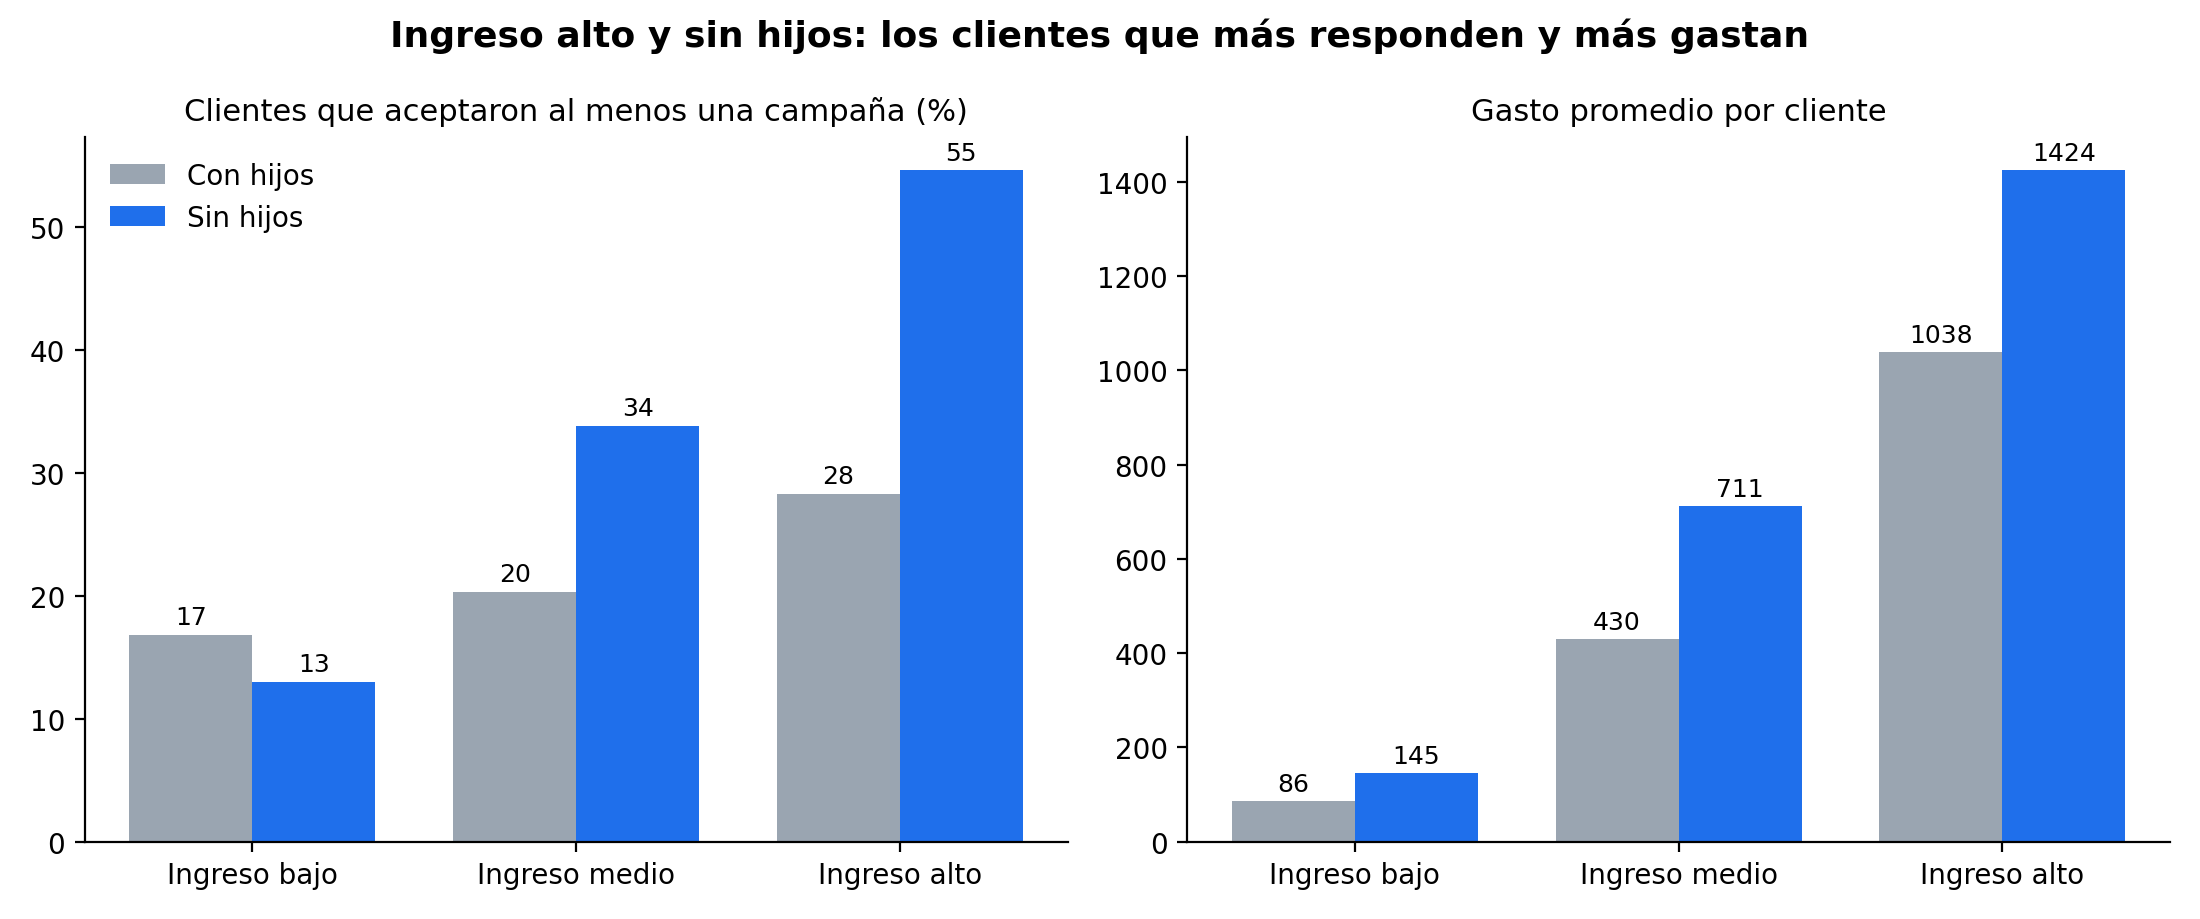
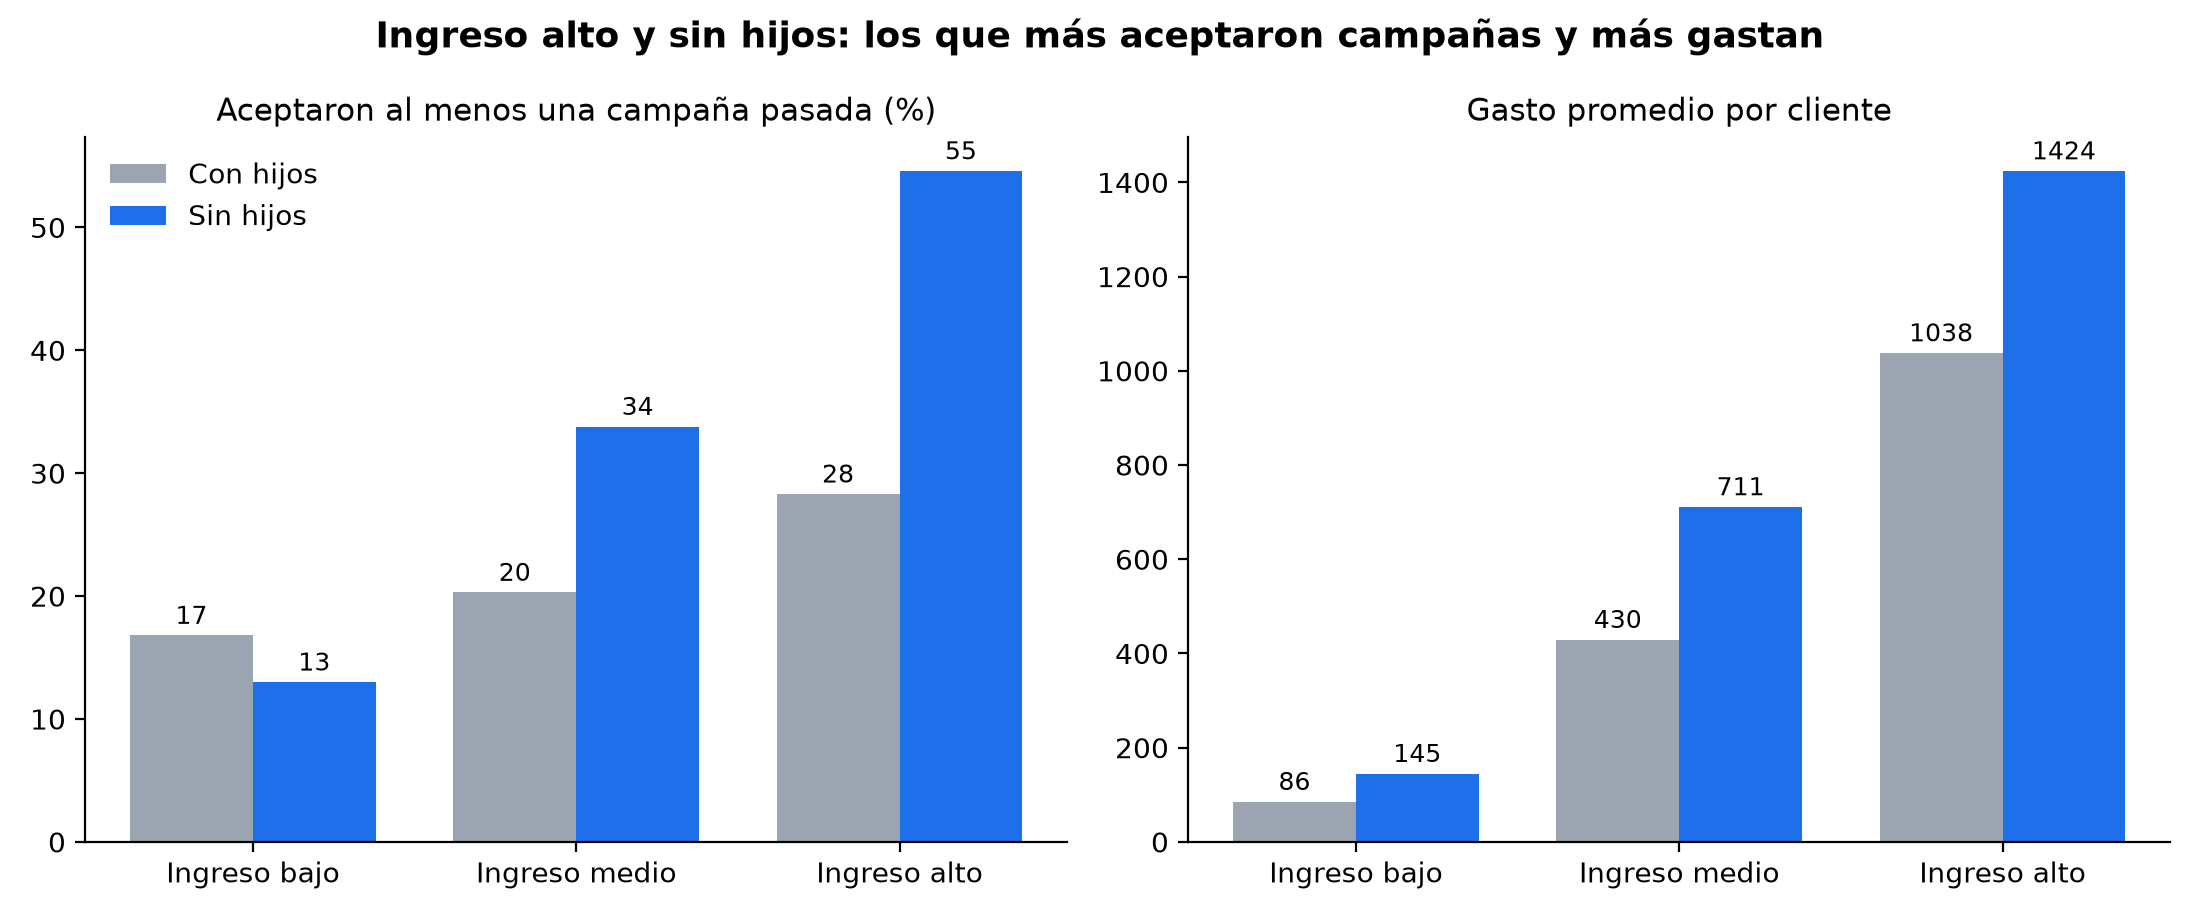
Entrega final: ajustes tras la devolución, presentación en PDF y README con enlaces

diff --git a/analisis_segmentos.py b/analisis_segmentos.py
@@ -3,7 +3,11 @@ Rebanada delgada #1 - Customer Personality Analysis
 
 Pregunta que responde:
     ¿Qué segmento de clientes, definido por ingreso y composición del hogar,
-    responde mejor a las campañas de marketing y gasta más?
+    aceptó más campañas en el pasado y gasta más?
+
+Importante: la aceptación que se mide es HISTÓRICA (campañas ya realizadas).
+No garantiza la misma respuesta en una campaña futura: para eso se propone
+una prueba piloto con grupo de control (ver README).
 
 Cómo correrlo:
     python analisis_segmentos.py
@@ -34,18 +38,18 @@ print(f"Filas excluidas: {n_original - len(df)} | Filas analizadas: {len(df)}")
 # ---------------------------------------------------------------
 # 3. Variables nuevas
 # ---------------------------------------------------------------
-# Respuesta a campañas: 1 si el cliente aceptó al menos una de las 6 campañas
+# Aceptación histórica: 1 si el cliente aceptó al menos una de las 6 campañas pasadas
 campanias = ["AcceptedCmp1", "AcceptedCmp2", "AcceptedCmp3",
              "AcceptedCmp4", "AcceptedCmp5", "Response"]
 df["acepto_alguna"] = (df[campanias].sum(axis=1) > 0).astype(int)
 
-# Gasto total: suma de lo gastado en todas las categorías de producto (columnas Mnt*)
+# Gasto total: suma de las columnas de gasto por categoría (empiezan con "Mnt")
 columnas_gasto = [c for c in df.columns if c.startswith("Mnt")]
 df["gasto_total"] = df[columnas_gasto].sum(axis=1)
 
-# Hogar: con hijos si tiene al menos un niño o adolescente en casa
-df["hogar"] = (df["Kidhome"] + df["Teenhome"] > 0).map(
-    {True: "Con hijos", False: "Sin hijos"})
+# Hogar con hijos si hay al menos un niño o adolescente en casa
+tiene_hijos = (df["Kidhome"] + df["Teenhome"]) > 0
+df["hogar"] = tiene_hijos.map({True: "Con hijos", False: "Sin hijos"})
 
 # Ingreso: tres tramos con la misma cantidad de clientes (terciles)
 df["ingreso"] = pd.qcut(df["Income"], 3, labels=["Bajo", "Medio", "Alto"])
@@ -53,42 +57,55 @@ df["ingreso"] = pd.qcut(df["Income"], 3, labels=["Bajo", "Medio", "Alto"])
 # ---------------------------------------------------------------
 # 4. Resultado por segmento
 # ---------------------------------------------------------------
-resumen = (
-    df.groupby(["ingreso", "hogar"], observed=True)
-      .agg(clientes=("ID", "count"),
-           tasa_aceptacion=("acepto_alguna", "mean"),
-           gasto_promedio=("gasto_total", "mean"),
-           gasto_total=("gasto_total", "sum"))
-      .reset_index()
-)
-resumen["pct_clientes"] = resumen["clientes"] / resumen["clientes"].sum()
-resumen["pct_gasto"] = resumen["gasto_total"] / resumen["gasto_total"].sum()
+grupos = df.groupby(["ingreso", "hogar"], observed=True)
+resumen = grupos.agg(
+    clientes=("ID", "count"),
+    tasa_aceptacion=("acepto_alguna", "mean"),
+    gasto_promedio=("gasto_total", "mean"),
+    gasto_total=("gasto_total", "sum"),
+).reset_index()
+
+resumen["pct_clientes"] = resumen["clientes"] / resumen["clientes"].sum() * 100
+resumen["pct_gasto"] = resumen["gasto_total"] / resumen["gasto_total"].sum() * 100
 resumen["tasa_aceptacion"] = resumen["tasa_aceptacion"] * 100
-resumen["pct_clientes"] = resumen["pct_clientes"] * 100
-resumen["pct_gasto"] = resumen["pct_gasto"] * 100
+
+# ---------------------------------------------------------------
+# 5. Control de calidad (si algo falla, el script se detiene con un mensaje)
+# ---------------------------------------------------------------
+assert len(resumen) == 6, "Se esperaban 6 segmentos (3 de ingreso x 2 de hogar)"
+assert len(df) == 2215, f"Se esperaban 2.215 registros y hay {len(df)}"
+assert resumen["clientes"].sum() == len(df), "Los segmentos no cubren todos los registros"
+assert abs(resumen["pct_clientes"].sum() - 100) < 1e-6, "El % de clientes no suma 100"
+assert abs(resumen["pct_gasto"].sum() - 100) < 1e-6, "El % del gasto no suma 100"
+print("Control de calidad: OK (2.215 registros en 6 segmentos; % del gasto suma 100)")
+
 resumen = resumen.round(1)
 
 print("\nTramos de ingreso:")
 print(df.groupby("ingreso", observed=True)["Income"].agg(["min", "max"]))
 print("\nResultado por segmento:")
 print(resumen.to_string(index=False))
-print(f"\nPromedio general: aceptación {df['acepto_alguna'].mean()*100:.1f}% | "
-      f"gasto {df['gasto_total'].mean():.0f}")
+promedio_aceptacion = df["acepto_alguna"].mean() * 100
+promedio_gasto = df["gasto_total"].mean()
+print(f"\nPromedio general: aceptación histórica {promedio_aceptacion:.1f}%")
+print(f"Promedio general: gasto por cliente {promedio_gasto:.0f}")
 
 resumen.to_csv("resultados_segmentos.csv", index=False)
 
 # ---------------------------------------------------------------
-# 5. Gráfico: aceptación de campañas y gasto promedio por segmento
+# 6. Gráfico: aceptación histórica de campañas y gasto promedio por segmento
 # ---------------------------------------------------------------
-fig, ejes = plt.subplots(1, 2, figsize=(11, 4.6))
+niveles = ["Bajo", "Medio", "Alto"]
 colores = {"Con hijos": "#9AA5B1", "Sin hijos": "#1F6FEB"}
 ancho = 0.38
-niveles = ["Bajo", "Medio", "Alto"]
+paneles = [
+    ("tasa_aceptacion", "Aceptaron al menos una campaña pasada (%)"),
+    ("gasto_promedio", "Gasto promedio por cliente"),
+]
 
-for ax, columna, titulo in [
-    (ejes[0], "tasa_aceptacion", "Clientes que aceptaron al menos una campaña (%)"),
-    (ejes[1], "gasto_promedio", "Gasto promedio por cliente"),
-]:
+fig, ejes = plt.subplots(1, 2, figsize=(11, 4.6))
+
+for ax, (columna, titulo) in zip(ejes, paneles):
     for i, hogar in enumerate(["Con hijos", "Sin hijos"]):
         datos = resumen[resumen["hogar"] == hogar].set_index("ingreso").loc[niveles]
         posiciones = [p + (i - 0.5) * ancho for p in range(3)]
@@ -101,8 +118,8 @@ for ax, columna, titulo in [
     ax.spines[["top", "right"]].set_visible(False)
 
 ejes[0].legend(frameon=False)
-fig.suptitle("Ingreso alto y sin hijos: los clientes que más responden y más gastan",
-             fontsize=13, fontweight="bold")
+titulo_general = "Ingreso alto y sin hijos: los que más aceptaron campañas y más gastan"
+fig.suptitle(titulo_general, fontsize=13, fontweight="bold")
 fig.tight_layout()
 fig.savefig("grafico_segmentos.png", dpi=200)
 print("\nGráfico guardado en grafico_segmentos.png")

diff --git a/README.md b/README.md
@@ -1,18 +1,21 @@
 # Segmentación de clientes por ingreso y hogar: ¿a quién dirigir la próxima campaña de marketing?
 
-Análisis en Python que identifica qué segmentos de clientes responden mejor a las campañas de marketing y gastan más, para decidir a quién priorizar en la próxima campaña.
+Análisis en Python que identifica qué segmentos de clientes aceptaron más campañas de marketing en el pasado y gastan más, para decidir a quién priorizar en la próxima campaña. La recomendación se valida con una prueba piloto con grupo de control.
 
 ## Problema de negocio
 
-Una empresa que contacta a toda su base de clientes con cada campaña gasta esfuerzo en clientes que casi no responden. En este dataset, solo el 27% de los clientes aceptó al menos una de las seis campañas.
+Una empresa que contacta a toda su base de clientes con cada campaña gasta esfuerzo en clientes que casi no responden. En este dataset, solo el 27% de los clientes aceptó al menos una de las seis campañas pasadas.
 
-**Pregunta:** ¿qué segmento de clientes, definido por ingreso y composición del hogar, responde mejor a las campañas de marketing y gasta más?
+**Pregunta:** ¿qué segmento de clientes, definido por ingreso y composición del hogar, aceptó más campañas y gasta más?
+
+**Importante:** la aceptación que se mide es **histórica** (campañas ya realizadas). Describe quién aceptó antes y no garantiza la misma tasa en una campaña nueva.
 
 ## Datos
 
-- **Fuente:** [Customer Personality Analysis (Kaggle)](https://www.kaggle.com/datasets/imakash3011/customer-personality-analysis)
+- **Fuente (enlace directo):** [https://www.kaggle.com/datasets/imakash3011/customer-personality-analysis](https://www.kaggle.com/datasets/imakash3011/customer-personality-analysis)
+- **Nombre:** Customer Personality Analysis (Kaggle)
 - **Archivo:** `marketing_campaign.csv`, 2.240 filas y 29 columnas, separado por tabulaciones.
-- El archivo **no está incluido** en este repositorio: hay que descargarlo de Kaggle (ver "Cómo ejecutar").
+- El archivo **no está incluido** en este repositorio: hay que descargarlo desde el enlace anterior (ver "Cómo ejecutar").
 
 ## Stack tecnológico
 
@@ -30,22 +33,25 @@ Se trabajó con CRISP-DM y sprints cortos, empezando por una **rebanada delgada*
 | Comprensión del negocio | Pregunta de negocio y definición de segmentos (ingreso y hogar) |
 | Comprensión de los datos | Carga del CSV, revisión de nulos y valores atípicos en `Income` |
 | Preparación de los datos | Limpieza mínima (criterio JBGE) y variables `acepto_alguna`, `gasto_total`, `hogar`, `ingreso` |
-| Modelado | Análisis descriptivo: tasa de aceptación y gasto por segmento |
-| Evaluación | Gráfico y lectura del resultado |
-| Despliegue | Presentación ejecutiva y este repositorio |
+| Modelado | Análisis descriptivo: tasa de aceptación histórica y gasto por segmento |
+| Evaluación | Verificaciones automáticas, gráfico y lectura del resultado |
+| Despliegue | Presentación ejecutiva, prueba piloto propuesta y este repositorio |
 
 **Plan de sprints:** el Sprint 1 (rebanada #1) está completo. Los sprints 2 y 3 (análisis por canal de compra, diccionario de variables y análisis por campaña) están planificados y todavía no se ejecutaron.
 
 **Criterio JBGE (lo justo y necesario):** solo se limpió lo necesario para esta pregunta: se excluyeron 25 filas (24 sin ingreso y 1 con un ingreso atípico de 666.666), quedando 2.215 clientes. Quedó afuera el análisis por canal de compra, los modelos predictivos y la segmentación avanzada.
 
+**Control de calidad:** el script incluye verificaciones automáticas (`assert`). Si alguna falla, el script se detiene con un mensaje: que los segmentos contemplen los 2.215 registros, que haya 6 segmentos y que los porcentajes de clientes y de gasto sumen 100%.
+
 ## Hallazgos clave
 
-- **Ingreso alto y sin hijos** es el segmento que más responde y más gasta: 441 clientes (19,9% de la base) concentran el 46,7% del gasto, y el 54,6% aceptó al menos una campaña, el doble del promedio general (27,3%).
+- **Ingreso alto y sin hijos** es el segmento que más aceptó campañas y más gasta: 441 clientes (19,9% de la base) concentran el 46,7% del gasto, y el 54,6% aceptó al menos una de las seis campañas pasadas, el doble del promedio general (27,3%).
 - El gasto promedio por cliente crece con el ingreso: el tramo alto gasta unas 13 veces más que el bajo.
-- En ingreso medio y alto, los hogares sin hijos aceptan más campañas que los que tienen hijos.
+- En ingreso medio y alto, los hogares sin hijos aceptaron más campañas pasadas que los que tienen hijos.
 - **Ingreso bajo con hijos** es el 28,2% de la base y aporta solo el 4,0% del gasto.
+- Son tasas históricas: el 54,6% del segmento ganador no garantiza esa tasa en una campaña nueva. Por eso se propone la prueba piloto de la sección siguiente.
 
-| Ingreso | Hogar | Clientes | % de clientes | Aceptó alguna campaña | Gasto promedio | % del gasto |
+| Ingreso | Hogar | Clientes | % de clientes | Aceptó alguna campaña pasada | Gasto promedio | % del gasto |
 |---|---|---|---|---|---|---|
 | Bajo | Con hijos | 624 | 28,2% | 16,8% | 86 | 4,0% |
 | Bajo | Sin hijos | 115 | 5,2% | 13,0% | 145 | 1,2% |
@@ -54,36 +60,75 @@ Se trabajó con CRISP-DM y sprints cortos, empezando por una **rebanada delgada*
 | Alto | Con hijos | 297 | 13,4% | 28,3% | 1.038 | 22,9% |
 | Alto | Sin hijos | 441 | 19,9% | 54,6% | 1.424 | 46,7% |
 
-![Aceptación de campañas y gasto promedio por segmento](grafico_segmentos.png)
+![Aceptación histórica de campañas y gasto promedio por segmento](grafico_segmentos.png)
 
-La presentación ejecutiva está en la carpeta [`presentacion/`](presentacion/).
+## Validación propuesta: prueba piloto
+
+- **Objetivo:** comprobar si dirigir la próxima campaña al segmento de ingreso alto sin hijos mejora realmente la conversión.
+- **Diseño:** dividir al azar los 441 clientes del segmento en dos grupos de unos 220: el de tratamiento recibe la campaña y el de control no.
+- **Métrica:** conversión, es decir, el porcentaje de clientes de cada grupo que acepta la campaña en el período de medición.
+- **Decisión:** si la conversión del grupo de tratamiento supera con claridad a la del control, se escala la campaña al segmento. Si no, se revisa la segmentación.
+- **Limitación:** con unos 220 clientes por grupo solo se detectan diferencias grandes, de alrededor de 13 puntos porcentuales (con 80% de potencia y 5% de significancia).
+- **Estado:** es un diseño propuesto; todavía no se ejecutó, porque requiere lanzar una campaña real.
 
 ## Cómo ejecutar
 
-1. Clonar el repositorio y entrar a la carpeta:
+1. Clonar el repositorio y entrar a la carpeta (en cualquier sistema operativo):
 
 ```bash
 git clone https://github.com/Tobias-Cavodeassi/analisis-segmentos-clientes-marketing.git
 cd analisis-segmentos-clientes-marketing
 ```
 
-2. Crear y activar un entorno virtual, e instalar las dependencias:
+2. Crear y activar un entorno virtual, según el sistema operativo.
+
+**Windows con PowerShell:**
+
+```powershell
+python -m venv venv
+venv\Scripts\Activate.ps1
+```
+
+Si PowerShell bloquea la activación, correr antes `Set-ExecutionPolicy -Scope Process -ExecutionPolicy RemoteSigned` y volver a activar.
+
+**Windows con CMD:**
+
+```bat
+python -m venv venv
+venv\Scripts\activate.bat
+```
+
+**Windows con Git Bash:**
 
 ```bash
 python -m venv venv
-source venv/Scripts/activate   # Git Bash en Windows (en Mac o Linux: source venv/bin/activate)
+source venv/Scripts/activate
+```
+
+**macOS y Linux:**
+
+```bash
+python3 -m venv venv
+source venv/bin/activate
+```
+
+Cuando el entorno está activo, el prompt muestra `(venv)` al inicio. Para salir del entorno se usa `deactivate`.
+
+3. Instalar las dependencias (con el entorno activo):
+
+```bash
 pip install -r requirements.txt
 ```
 
-3. Descargar `marketing_campaign.csv` desde Kaggle y copiarlo en esta carpeta.
+4. Descargar `marketing_campaign.csv` desde el enlace directo de Kaggle (https://www.kaggle.com/datasets/imakash3011/customer-personality-analysis); hace falta iniciar sesión y usar el botón Download. Descomprimir el archivo y copiar `marketing_campaign.csv` en esta carpeta.
 
-4. Correr el análisis:
+5. Correr el análisis (en macOS y Linux, usar `python3` si `python` no existe):
 
 ```bash
 python analisis_segmentos.py
 ```
 
-Genera `resultados_segmentos.csv` y `grafico_segmentos.png`.
+Genera `resultados_segmentos.csv` y `grafico_segmentos.png`, e imprime "Control de calidad: OK" si las verificaciones pasan.
 
 ## Estructura del repositorio
 
@@ -91,22 +136,26 @@ Genera `resultados_segmentos.csv` y `grafico_segmentos.png`.
 analisis_segmentos.py      script del análisis (rebanada #1)
 resultados_segmentos.csv   tabla de resultados por segmento
 grafico_segmentos.png      gráfico de resultados
-presentacion/              diapositivas ejecutivas (imágenes)
+presentacion/              presentación ejecutiva (PDF y diapositivas en imágenes)
 requirements.txt           dependencias
 ```
 
 ## Limitaciones
 
 - Los resultados son descriptivos: muestran asociación, no causa.
+- La tasa de aceptación es histórica y no garantiza la respuesta a una campaña nueva.
 - Los segmentos de ingreso bajo sin hijos (115 clientes) y de ingreso medio sin hijos (77 clientes) son chicos, así que sus tasas hay que leerlas con cautela.
 - El dataset no indica la moneda del ingreso ni del gasto.
 
 ## Próximos pasos
 
+- Ejecutar la prueba piloto con grupo de control antes de reasignar presupuesto.
 - Analizar el gasto por canal de compra (web, catálogo y tienda).
 - Revisar la respuesta campaña por campaña.
-- Validar el hallazgo con una prueba piloto antes de reasignar presupuesto.
 
 ## Autor
 
 Tobías Cavodeassi, Data Analyst Jr. (Marketing & Growth).
+
+- LinkedIn: [https://www.linkedin.com/in/tobías-nahuel-cavodeassi-35280a326](https://www.linkedin.com/in/tob%C3%ADas-nahuel-cavodeassi-35280a326)
+- GitHub: [github.com/Tobias-Cavodeassi](https://github.com/Tobias-Cavodeassi)
